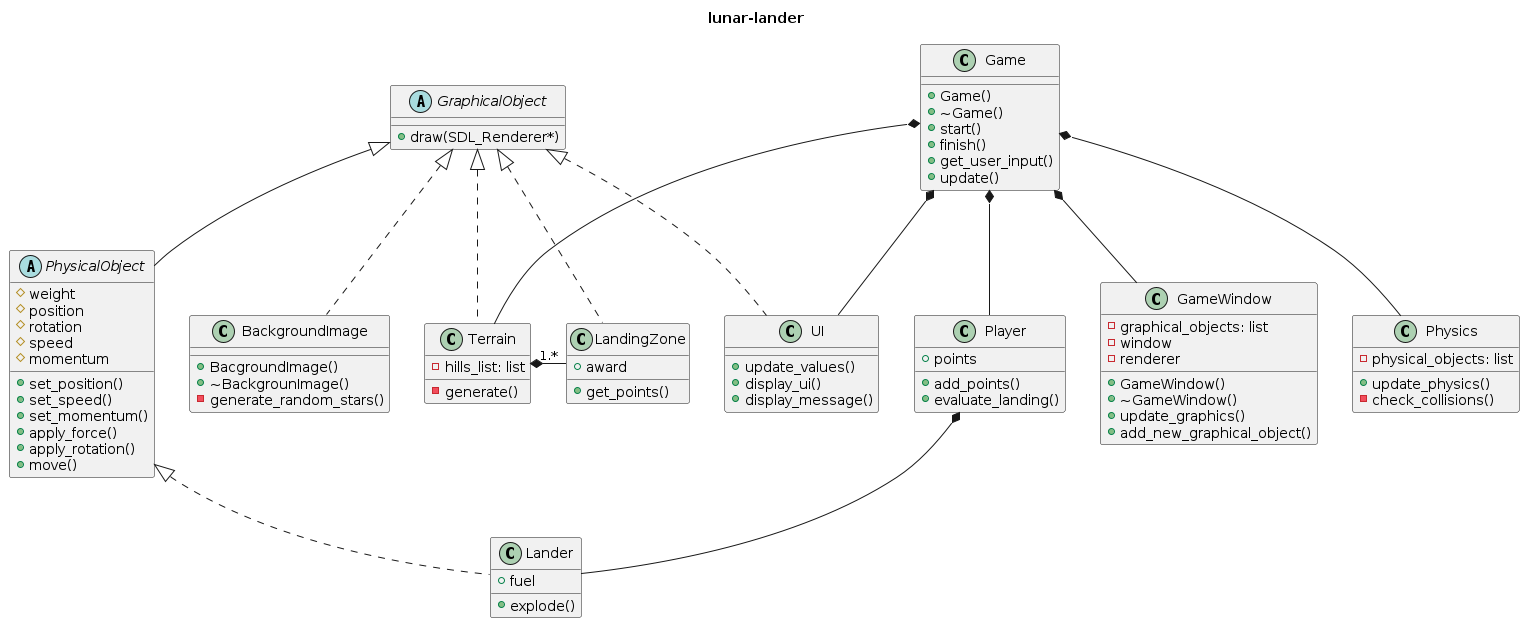
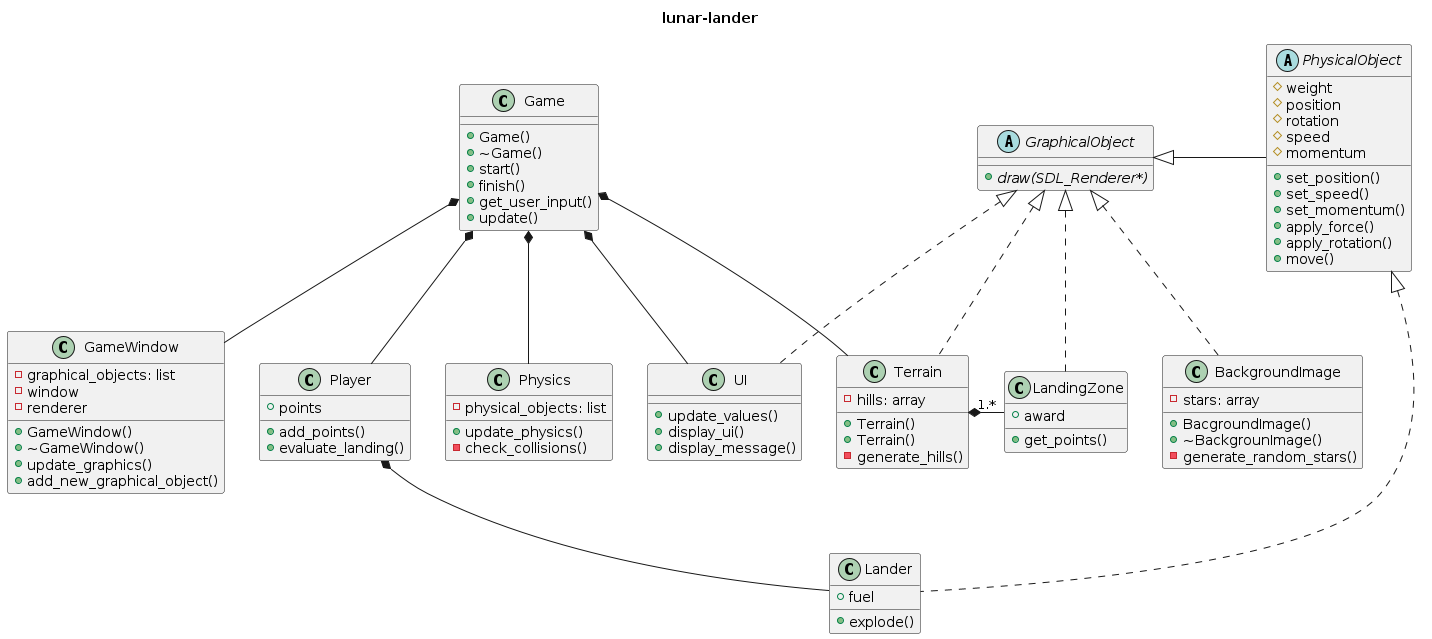
added Terrain rendering

diff --git a/src/graphics.cpp b/src/graphics.cpp
@@ -3,7 +3,7 @@
 
 constexpr int SCREEN_WIDTH = 640;
 constexpr int SCREEN_HEIGHT = 480;
-constexpr int STAR_COUNT = 50;
+
 
 void BackgroundImage::generate_random_stars()
 {
@@ -12,19 +12,55 @@ void BackgroundImage::generate_random_stars()
     std::uniform_int_distribution<std::mt19937::result_type> distwidth(1,SCREEN_WIDTH);
     std::uniform_int_distribution<std::mt19937::result_type> distheight(1,SCREEN_HEIGHT);
     for (int i=0; i<STAR_COUNT; ++i) {
-        stars.emplace_back(Vector2D{int(distwidth(rng)), int(distheight(rng))});
+        stars[i] = SDL_Point{int(distwidth(rng)), int(distheight(rng))};
     }
 }
 
 void BackgroundImage::draw(SDL_Renderer* renderer)
 {
     SDL_SetRenderDrawColor(renderer,0xFF,0xFF,0xFF,0xFF);
-    for (auto coordinates: stars) {
-        SDL_RenderDrawPoint(renderer, coordinates.x, coordinates.y);
-    }
+    SDL_RenderDrawPoints(renderer,stars.data(),STAR_COUNT);
 }
 
 BackgroundImage::BackgroundImage()
 {
     generate_random_stars();
+}
+
+UI::UI()
+{
+    title_font = TTF_OpenFont("16_true_type_fonts/lazy.ttf",28);
+    ui_font = TTF_OpenFont("16_true_type_fonts/lazy.ttf",28);
+}
+
+UI::~UI()
+{
+    TTF_CloseFont(title_font);
+    TTF_CloseFont(ui_font);
+
+}
+
+void Terrain::generate_random_terrain()
+{
+    std::random_device dev;
+    std::mt19937 rng(dev());
+    std::uniform_int_distribution<std::mt19937::result_type> distheight(0,SCREEN_HEIGHT/10);
+    int height = 0;
+    for (int i=0; i<HILLS_COUNT; ++i) {
+        height += int(distheight(rng)) - SCREEN_HEIGHT/20;
+        if (height < 0) {
+            height -= height;
+        }
+        hills[i] = SDL_Point{SCREEN_WIDTH/HILLS_COUNT*i,SCREEN_HEIGHT-height};
+    }
+}
+
+void Terrain::draw(SDL_Renderer* renderer)
+{
+    SDL_RenderDrawLines(renderer,hills.data(),HILLS_COUNT);
+}
+
+Terrain::Terrain()
+{
+    generate_random_terrain();
 }

diff --git a/inc/graphics.h b/inc/graphics.h
@@ -1,12 +1,17 @@
 #pragma once
 
 #include <SDL.h>
-#include <list>
+#include <SDL_ttf.h>
+#include <array>
 
-struct Vector2D {
-    int x;
-    int y;
-};
+constexpr int STAR_COUNT = 80;
+constexpr int HILLS_COUNT = 200;
+
+namespace colors
+{
+    constexpr SDL_Color white {255,255,255};
+    constexpr SDL_Color black {0,0,0};
+}
 
 class GraphicalObject {
 public:
@@ -20,5 +25,25 @@ public:
     void draw(SDL_Renderer*) final;
 private:
     void generate_random_stars();
-    std::list<Vector2D> stars;
+    std::array<SDL_Point, STAR_COUNT> stars;
+};
+
+class UI: public GraphicalObject {
+public:
+    UI();
+    ~UI();
+private:
+    SDL_Texture* ui_texture;
+    TTF_Font* ui_font;
+    TTF_Font* title_font;
+};
+
+class Terrain: public GraphicalObject {
+public:
+    Terrain();
+    ~Terrain();
+    void draw(SDL_Renderer*) final;
+private:
+    void generate_random_terrain();
+    std::array<SDL_Point, HILLS_COUNT> hills;
 };

diff --git a/src/game.cpp b/src/game.cpp
@@ -5,6 +5,7 @@
 Game::Game()
 {
     window.add_new_graphical_object(new BackgroundImage);
+    window.add_new_graphical_object(new Terrain);
 }
 
 Game::~Game()
